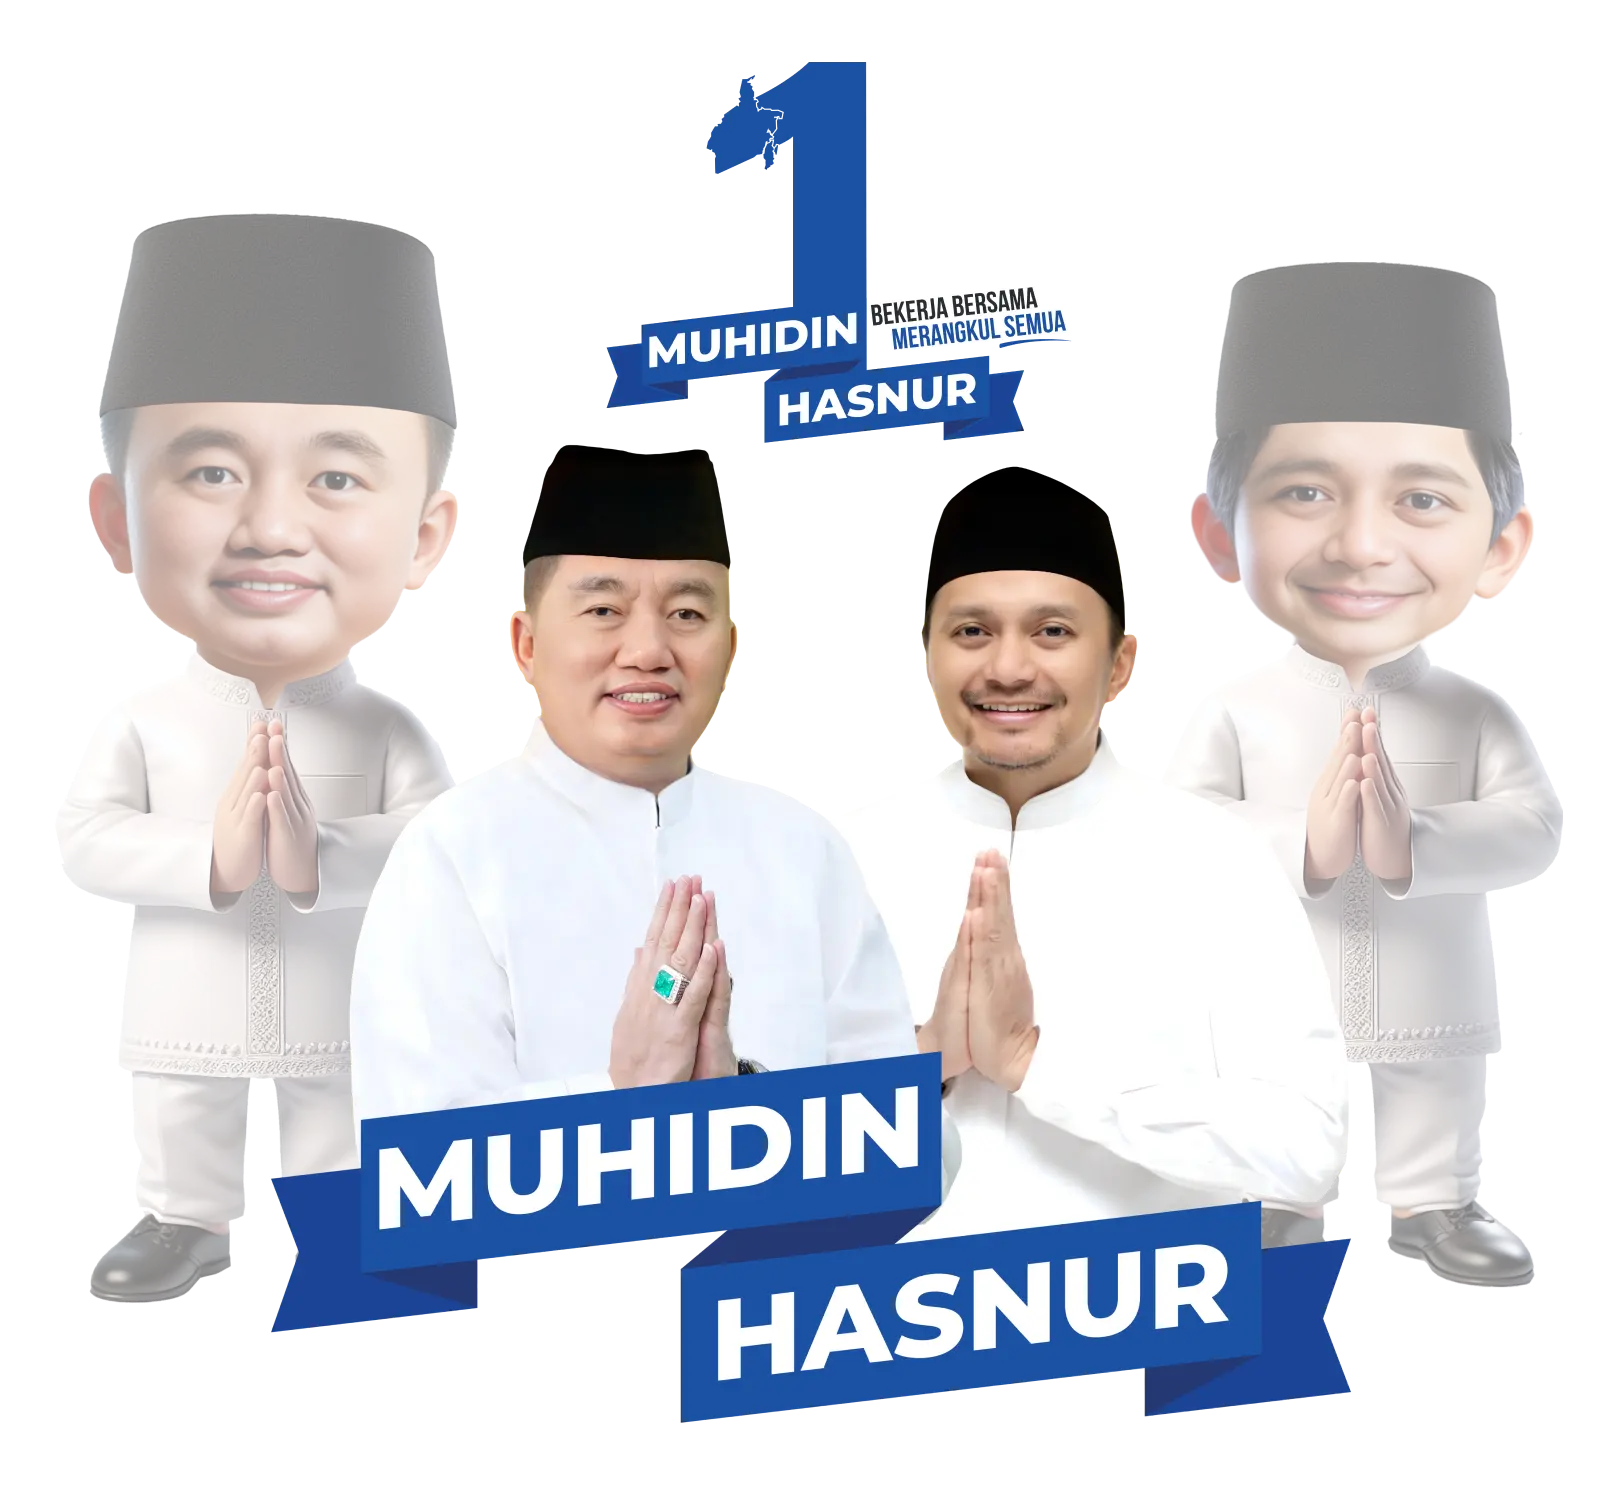
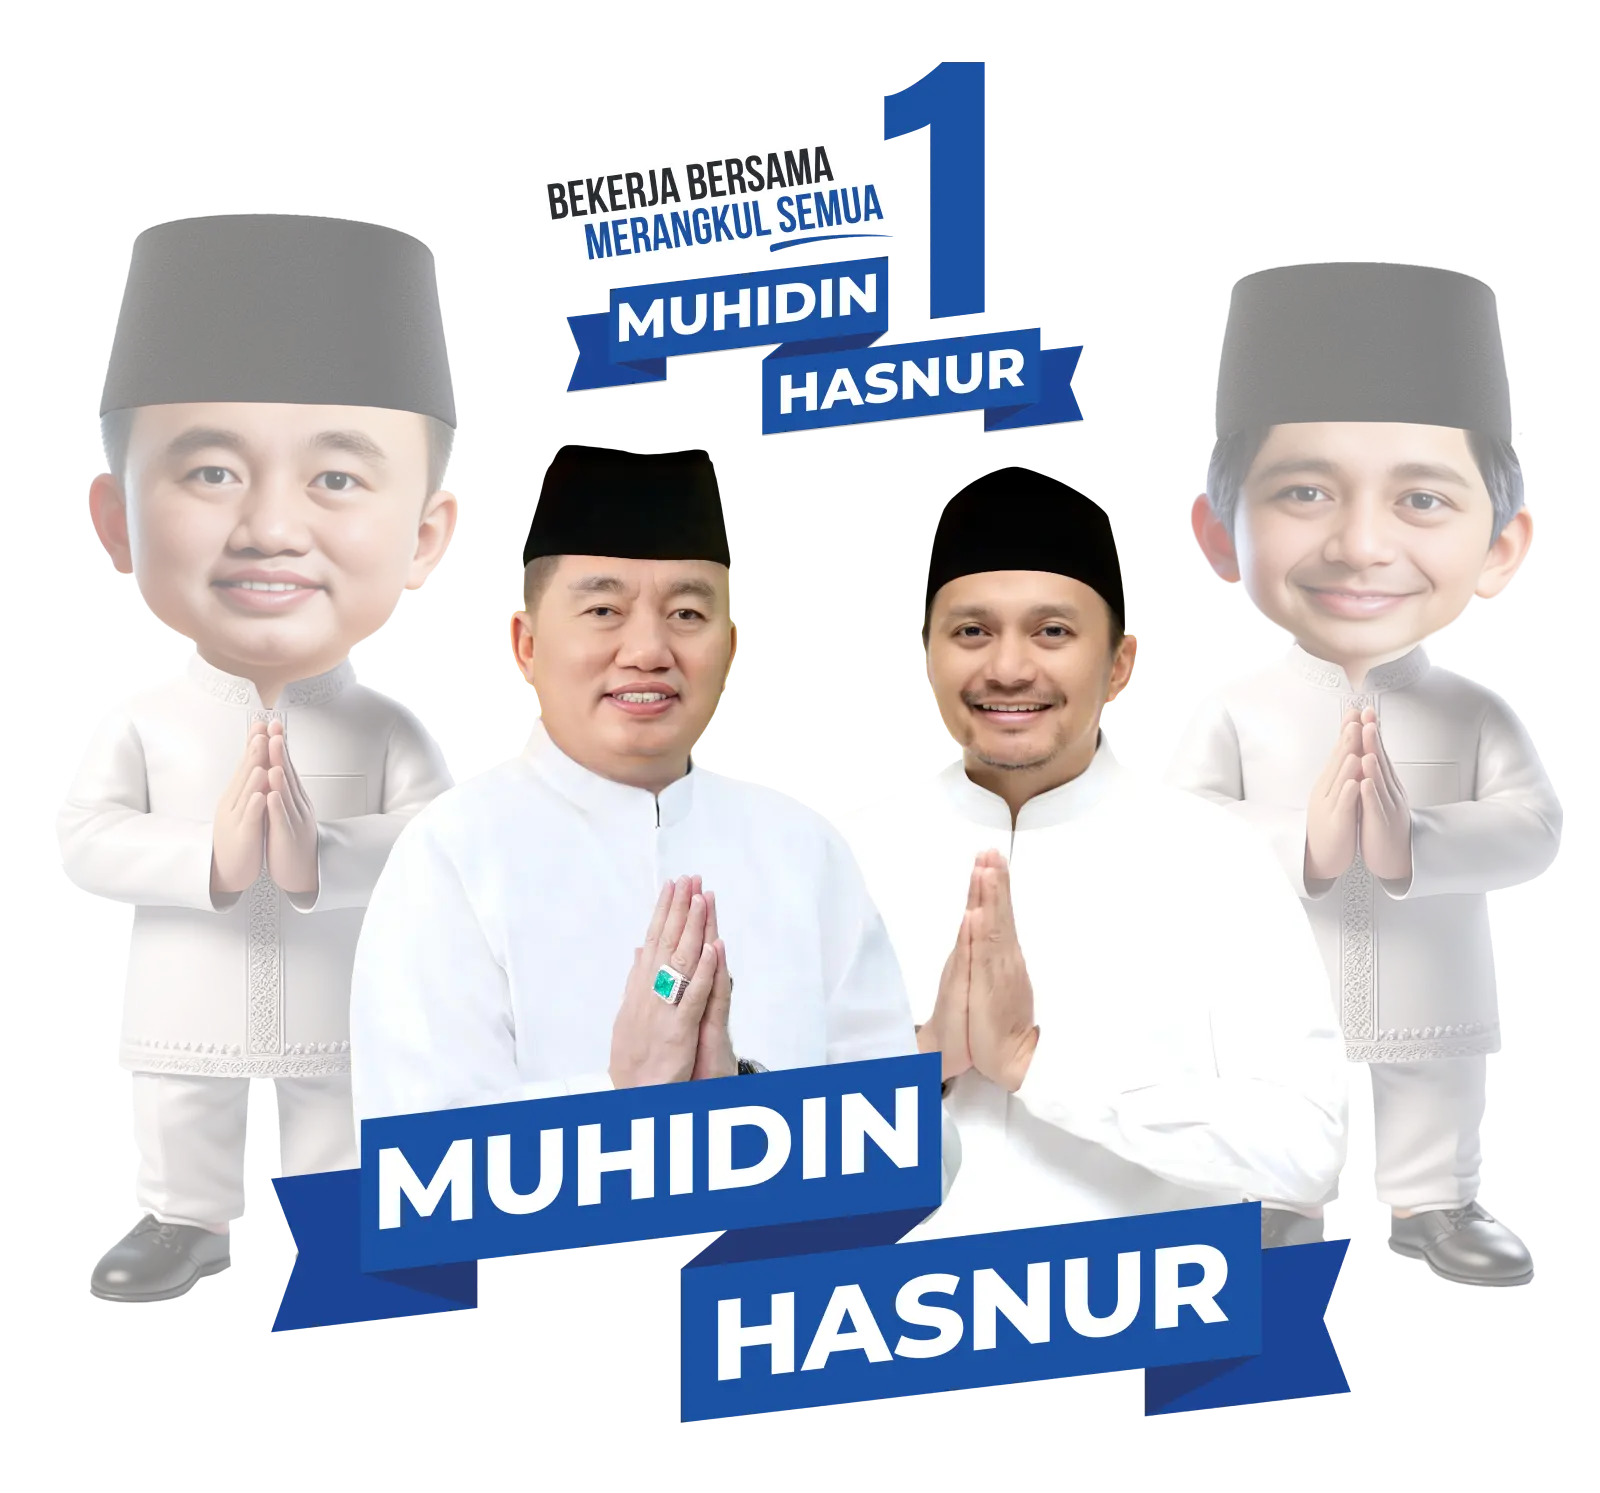
💄 Add SynergySection and Change Hero Image

Changed region(s): [[0.3438, 0.0308, 0.6875, 0.3081]]

diff --git a/src/sections/synergy/SynergySection.jsx b/src/sections/synergy/SynergySection.jsx
@@ -1,0 +1,35 @@
+import { Row } from "react-bootstrap";
+import AppSection from "../../components/App/AppSection";
+
+export default function SynergySection() {
+  return (
+    <AppSection id="SynergySection" title="Sinergi" icon="bi-arrow-repeat">
+      <Row className=" px-lg-0 px-2">
+        <h5 className="fw-light">
+          Sinergi antara Haji Muhidin dan Hasnuriyadi Sulaiman (Hasnur) sebagai
+          pasangan pemimpin menawarkan
+          <span className="fw-bold bg-primary text-light">
+            {" "}
+            kombinasi yang kuat dan ideal untuk memimpin Kalimantan Selatan.{" "}
+          </span>
+          <br />
+          <br />
+          <span className="fw-bold bg-primary text-light"> Haji Muhidin </span>
+          dikenal sebagai sosok yang dermawan, rendah hati, religius, dan
+          humoris, serta telah terbukti berhasil dalam membangun Kota
+          Banjarmasin selama satu periode kepemimpinannya, sedangkan
+          <span className="fw-bold bg-primary text-light"> Hasnur </span> dengan
+          jiwa muda, inovatif, dan kreatif, membawa energi baru yang fokus pada
+          pengembangan kepemudaan, olahraga, dan pendidikan. <br />
+          <br /> Pengalaman mereka sebagai pengusaha sukses memberikan mereka
+          keunggulan finansial, menjadikan motivasi mereka untuk memimpin lebih
+          pada pengabdian untuk masyarakat. Keduanya memiliki rekam jejak yang
+          menunjukkan komitmen mereka dalam meningkatkan kesejahteraan
+          masyarakat, melalui pembangunan yang merata, inovasi di bidang sosial,
+          pendidikan, dan agama, serta kepemimpinan yang jujur dan bertanggung
+          jawab.
+        </h5>
+      </Row>
+    </AppSection>
+  );
+}

diff --git a/src/sections/about/AboutSection.jsx b/src/sections/about/AboutSection.jsx
@@ -46,13 +46,6 @@ export default function AboutSection() {
   };
 
   return (
-    // <FadeIn>
-    //   <section id="aboutSection" className={`pt-5 pb-5`}>
-    //     <Container className="text-center">
-    //       <h1 className="text-start mb-5 fw-bold">
-    //         <i className="bi bi-people-fill text-mh-primary"> </i>Biografi
-    //         <div className="section-title-line"></div>
-    //       </h1>
     <AppSection id="AboutSection" title="Biografi" icon="bi-people-fill">
       <Row className="text-center">
         <Col md={6} className="mb-lg-0 mb-5">
@@ -96,9 +89,5 @@ export default function AboutSection() {
         handleClose={handleCloseModal}
       />
     </AppSection>
-
-    //     </Container>
-    //   </section>
-    // </FadeIn>
   );
 }

diff --git a/src/App.jsx b/src/App.jsx
@@ -2,6 +2,7 @@ import { useState } from "react";
 import AppNavbar from "./components/App/AppNavbar";
 import HeroSection from "./sections/hero/HeroSection";
 import AboutSection from "./sections/about/AboutSection";
+import SynergySection from "./sections/synergy/SynergySection";
 
 function App() {
   const [isDarkTheme, setIsDarkTheme] = useState(false);
@@ -20,6 +21,7 @@ function App() {
       />
       <HeroSection isDarkTheme={isDarkTheme} />
       <AboutSection />
+      <SynergySection />
     </div>
   );
 }

diff --git a/src/App.css b/src/App.css
@@ -1,11 +1,11 @@
-@import url("https://fonts.googleapis.com/css2?family=Plus+Jakarta+Sans:ital,wght@0,200..800;1,200..800&display=swap");
+@import url("https://fonts.googleapis.com/css2?family=Nunito:ital,wght@0,200..1000;1,200..1000&display=swap");
 
 :root {
   --mh-primary: #1a51a3;
 }
 
 * {
-  font-family: "Plus Jakarta Sans", sans-serif;
+  font-family: "Nunito", sans-serif;
 }
 
 .section-title-line {
